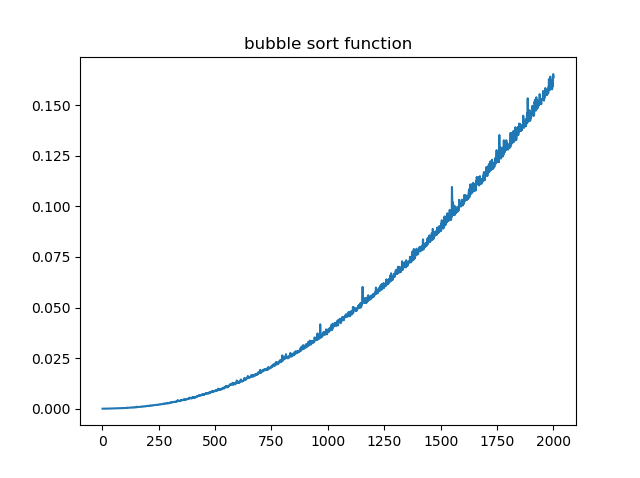
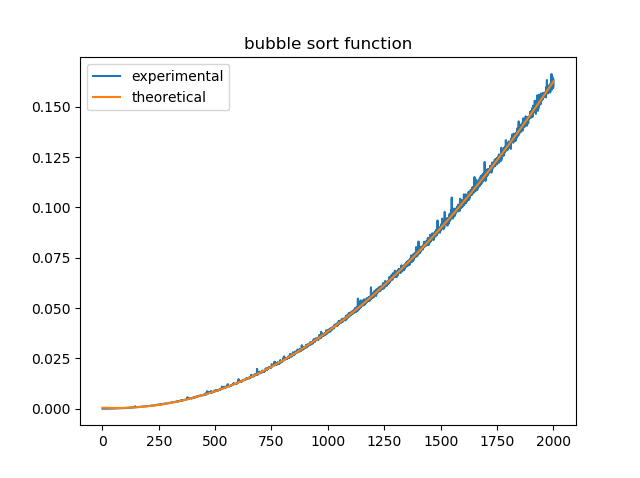
Modified task1 and plots added

diff --git a/task 1/firstPart.py b/task 1/firstPart.py
@@ -4,24 +4,34 @@ import random
 import matplotlib.pyplot as plt
 import functools
 import QuickSort as qs
+from scipy.optimize import curve_fit
 
 def measure_avg_time(fun, size):
 	x = [random.uniform(0, 1) for i in range(size)]
 	return timeit.timeit(functools.partial(fun, size, x), number=5) / 5.0	
 
+def lin(x, a, b):
+	return a * x + b
+
+def nlogn(x, a, b):
+	return a * x * np.log(x) + b
+
+def n_2(x, a, b, c):
+	return a * np.square(x) + b * x + c
 
 timing = []
 
 def const_func(size, x):
-	for i in range(size):
-		x[i] += 1
+	x[0] += 1
 
 for i in range(1, 2001):
 	timing.append(measure_avg_time(const_func, i))
 
 
-plt.plot(range(1, 2001), timing, )
+l1, = plt.plot(range(1, 2001), timing)
+l2, = plt.plot(range(1, 2001), [timing[0]] * 2000)
 plt.title("constant function")
+plt.legend((l1, l2), ("experimental", "theoretical"))
 plt.show()
 
 
@@ -34,8 +44,11 @@ for i in range(1, 2001):
 	timing.append(measure_avg_time(sum_func, i))
 
 
-plt.plot(range(1, 2001), timing)
+l1, = plt.plot(range(1, 2001), timing)
+coefs, _ = curve_fit(lin, range(1, 2001), timing)
+l2, = plt.plot(range(1, 2001), [lin(i, coefs[0], coefs[1]) for i in range(1, 2001)])
 plt.title("sum function")
+plt.legend((l1, l2), ("experimental", "theoretical"))
 plt.show()
 
 
@@ -48,8 +61,11 @@ for i in range(1, 2001):
 	timing.append(measure_avg_time(multi_func, i))
 
 
-plt.plot(range(1, 2001), timing)
+l1, = plt.plot(range(1, 2001), timing)
+coefs, _ = curve_fit(lin, range(1, 2001), timing)
+l2, = plt.plot(range(1, 2001), [lin(i, coefs[0], coefs[1]) for i in range(1, 2001)])
 plt.title("multi function")
+plt.legend((l1, l2), ("experimental", "theoretical"))
 plt.show()
 
 timing = []
@@ -67,8 +83,11 @@ for i in range(1, 2001):
 	timing.append(measure_avg_time(poly_func, i))
 
 
-plt.plot(range(1, 2001), timing)
+l1, = plt.plot(range(1, 2001), timing)
+coefs, _ = curve_fit(n_2, range(1, 2001), timing)
+l2, = plt.plot(range(1, 2001), [n_2(i, coefs[0], coefs[1], coefs[2]) for i in range(1, 2001)])
 plt.title("poly function")
+plt.legend((l1, l2), ("experimental", "theoretical"))
 plt.show()
 
 
@@ -87,11 +106,14 @@ for i in range(1, 2001):
 	timing.append(measure_avg_time(horner_func, i))
 
 
-plt.plot(range(1, 2001), timing)
+l1, = plt.plot(range(1, 2001), timing)
+coefs, _ = curve_fit(lin, range(1, 2001), timing)
+l2, = plt.plot(range(1, 2001), [lin(i, coefs[0], coefs[1]) for i in range(1, 2001)])
 plt.title("horner function")
+plt.legend((l1, l2), ("experimental", "theoretical"))
 plt.show()
 
-"""
+
 timing = []
 
 def bubble(n, x, v=1.5):
@@ -108,10 +130,13 @@ for i in range(1, 2001):
 	print(i)
 
 
-plt.plot(range(1, 2001), timing)
+l1, = plt.plot(range(1, 2001), timing)
+coefs, _ = curve_fit(n_2, range(1, 2001), timing)
+l2, = plt.plot(range(1, 2001), [n_2(i, coefs[0], coefs[1], coefs[2]) for i in range(1, 2001)])
 plt.title("bubble sort function")
+plt.legend((l1, l2), ("experimental", "theoretical"))
 plt.show()
-"""
+
 
 timing = []
 
@@ -122,6 +147,26 @@ for i in range(1, 2001):
 	timing.append(measure_avg_time(quick_func, i))
 
 
-plt.plot(range(1, 2001), timing)
+l1, = plt.plot(range(1, 2001), timing)
 plt.title("quick sort function")
+coefs, _ = curve_fit(nlogn, range(1, 2001), timing)
+l2, = plt.plot(range(1, 2001), [nlogn(i, coefs[0], coefs[1]) for i in range(1, 2001)])
+plt.legend((l1, l2), ("experimental", "theoretical"))
+plt.show()
+
+
+timing = []
+
+def tim_func(size, x):
+	return x.sort()
+
+for i in range(1, 2001):
+	timing.append(measure_avg_time(tim_func, i))
+
+
+l1, = plt.plot(range(1, 2001), timing)
+plt.title("tim sort function")
+coefs, _ = curve_fit(nlogn, range(1, 2001), timing)
+l2, = plt.plot(range(1, 2001), [nlogn(i, coefs[0], coefs[1]) for i in range(1, 2001)])
+plt.legend((l1, l2), ("experimental", "theoretical"))
 plt.show()

diff --git a/task 1/SecondPart.py b/task 1/SecondPart.py
@@ -1,0 +1,29 @@
+import numpy as np
+import matplotlib.pyplot as plt
+import functools
+import random
+import timeit
+from scipy.optimize import curve_fit
+
+def measure_avg_time(fun, size):
+	a = np.array([[random.uniform(0, 1) for i in range(size)] for j in range(size)])
+	b = np.array([[random.uniform(0, 1) for i in range(size)] for j in range(size)])
+	return timeit.timeit(functools.partial(fun, size, a, b), number=5) / 5.0
+
+def matrix_multi(size, a, b):
+	return a.dot(b)
+
+def n_2(x, a, b, c):
+	return a * np.square(x) + b * x + c
+	
+timing = []
+
+for i in range(1, 1001):
+	timing.append(measure_avg_time(matrix_multi, i))
+
+l1, = plt.plot(range(1, 1001), timing)
+coefs, _ = curve_fit(n_2, range(1, 1001), timing)
+l2, = plt.plot(range(1, 1001), [n_2(i, coefs[0], coefs[1], coefs[2]) for i in range(1, 1001)])
+plt.title("Matrix multiplication function")
+plt.legend((l1, l2), ("experimental", "theoretical"))
+plt.show()	
